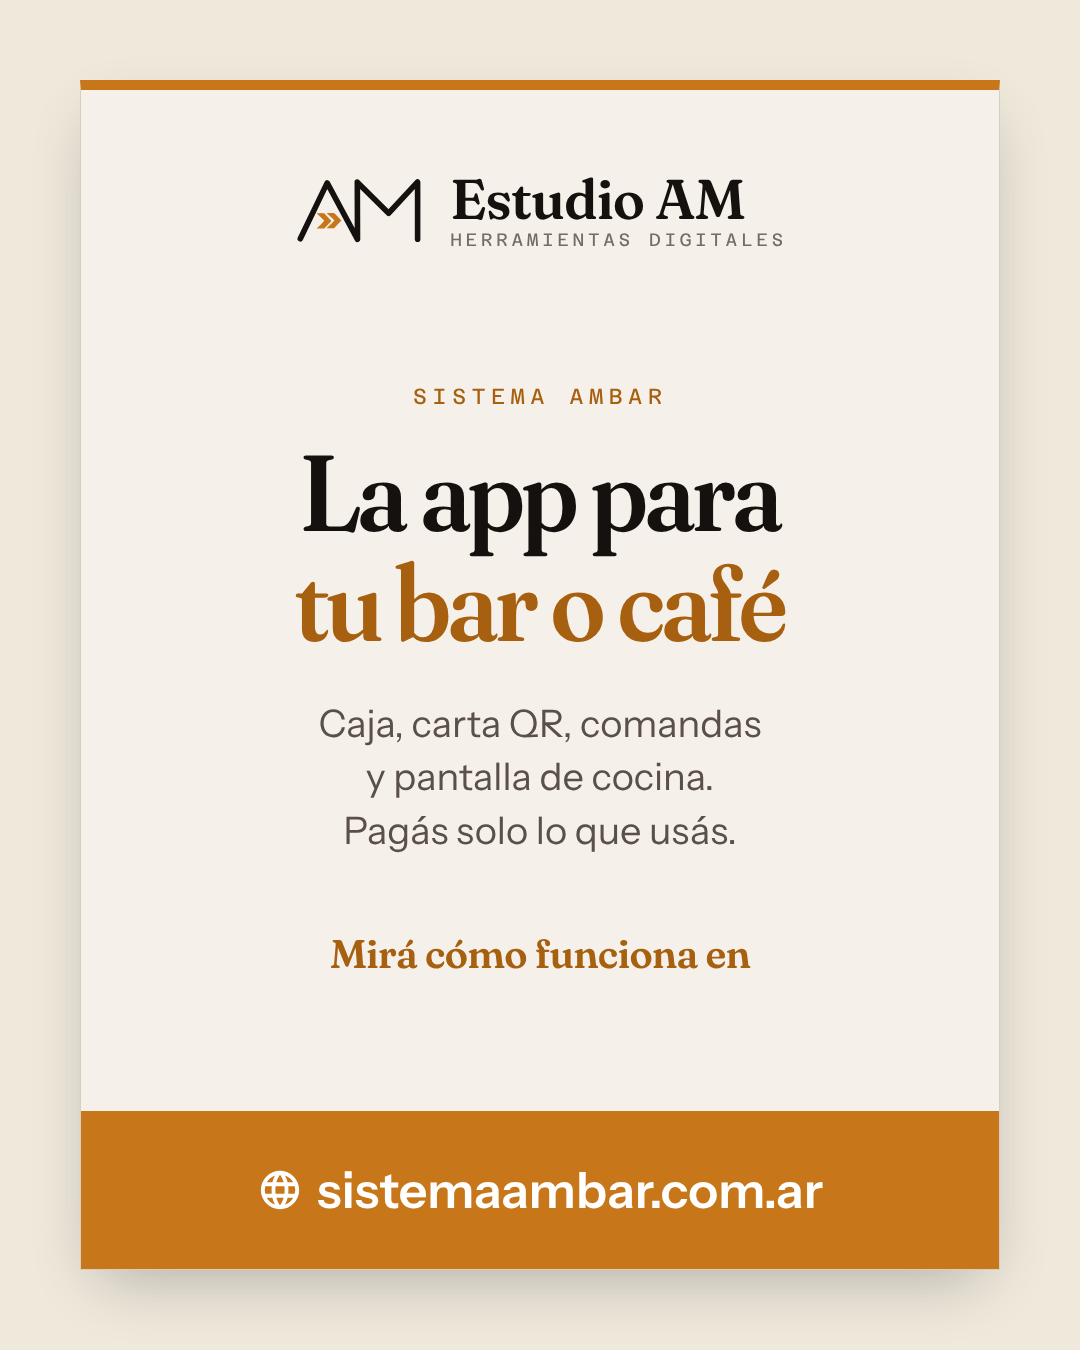
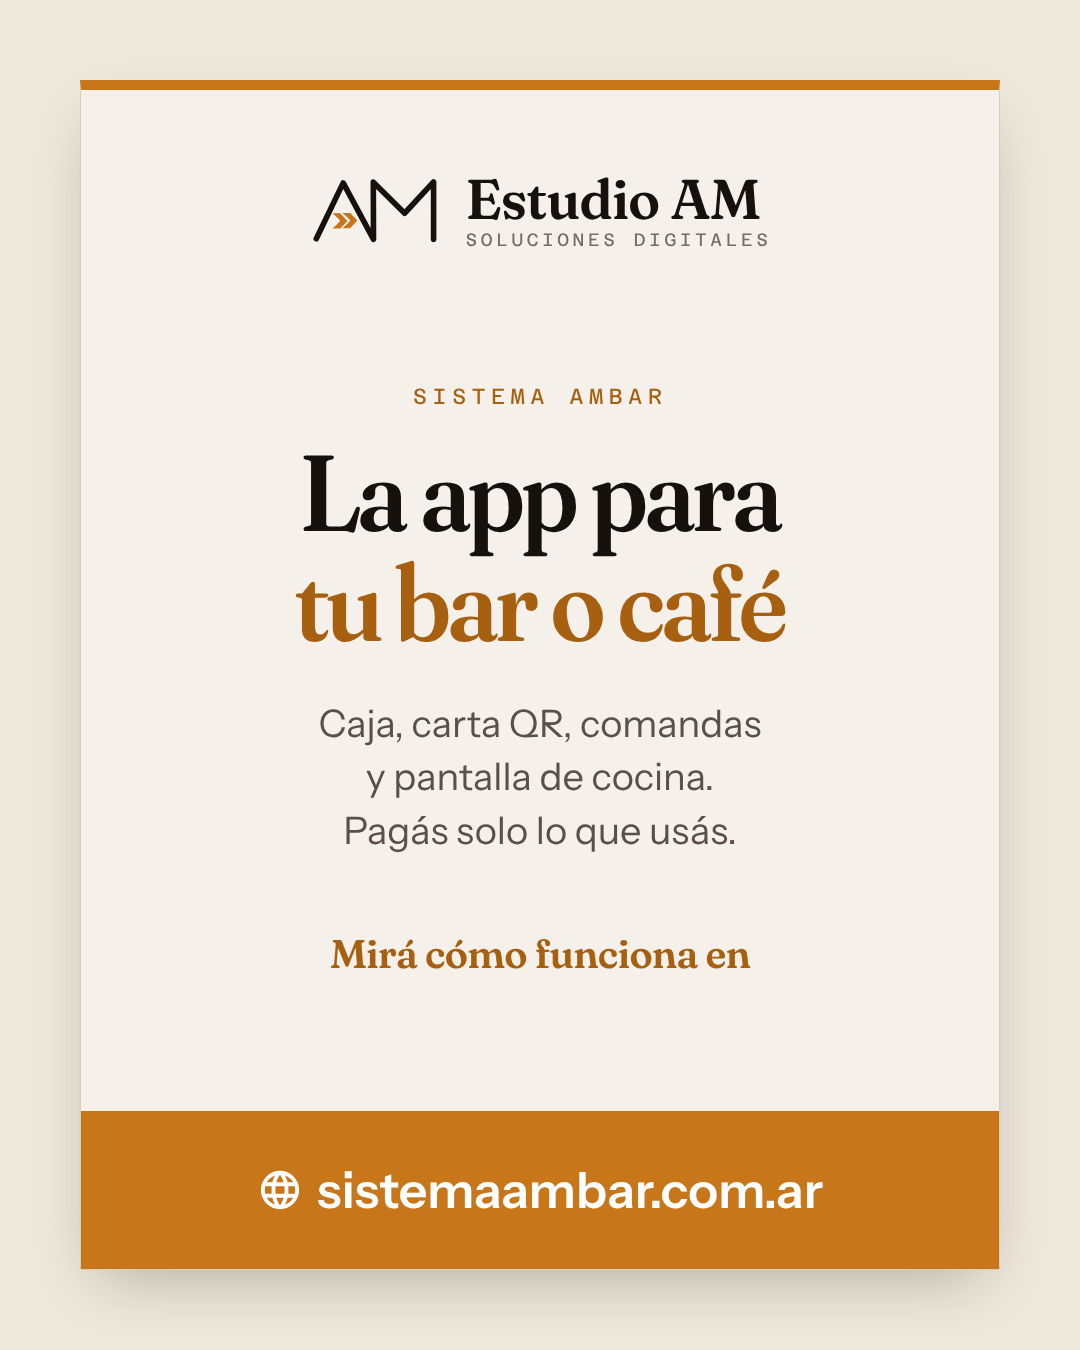
Piezas de Instagram: "Soluciones digitales" como en el sitio
Claude-Session: https://claude.ai/code/session_017mEGFx6s2jDAYU45fQz8RP

Changed region(s): [[0.275, 0.1244, 0.7028, 0.1867]]

diff --git a/piezas/instagram-ambar.html b/piezas/instagram-ambar.html
@@ -19,7 +19,7 @@ h1 span{color:#A6600F}
 .info svg{width:46px;height:46px;fill:#fff}
 </style></head><body>
 <div class="card">
-  <div class="top"><svg class="mark" viewBox="0 26 190 100"><path d="M 10.422337,117.11416 48.820421,37.300995 92.1554,117.93697 91.881131,36.203908 136.58747,80.635977 178.00255,35.929636 V 117.6627" fill="none" stroke="#14110F" stroke-width="8" stroke-linecap="round" stroke-linejoin="round"/><polygon points="37.00,81.00 44.67,91.00 37.00,101.00 41.83,101.00 48.50,91.00 41.83,81.00" fill="#C8761A"/><polygon points="56.33,101 63,91 56.33,81 51.5,81 59.17,91 51.5,101 " fill="#c8761a" transform="matrix(1.3851412,0,0,0.97306171,-34.373503,2.997782)" style="stroke:#c8761a;stroke-width:2.41402;stroke-dasharray:none;stroke-opacity:1"/><polygon points="51.50,81.00 59.17,91.00 51.50,101.00 56.33,101.00 63.00,91.00 56.33,81.00" fill="#C8761A"/><polygon points="56.33,101 63,91 56.33,81 51.5,81 59.17,91 51.5,101 " fill="#c8761a" transform="matrix(1.3851412,0,0,0.97306171,-20.089239,2.6035349)" style="stroke:#c8761a;stroke-width:2.41402;stroke-dasharray:none;stroke-opacity:1"/></svg><div class="lt"><b>Estudio AM</b><i>Herramientas digitales</i></div></div>
+  <div class="top"><svg class="mark" viewBox="0 26 190 100"><path d="M 10.422337,117.11416 48.820421,37.300995 92.1554,117.93697 91.881131,36.203908 136.58747,80.635977 178.00255,35.929636 V 117.6627" fill="none" stroke="#14110F" stroke-width="8" stroke-linecap="round" stroke-linejoin="round"/><polygon points="37.00,81.00 44.67,91.00 37.00,101.00 41.83,101.00 48.50,91.00 41.83,81.00" fill="#C8761A"/><polygon points="56.33,101 63,91 56.33,81 51.5,81 59.17,91 51.5,101 " fill="#c8761a" transform="matrix(1.3851412,0,0,0.97306171,-34.373503,2.997782)" style="stroke:#c8761a;stroke-width:2.41402;stroke-dasharray:none;stroke-opacity:1"/><polygon points="51.50,81.00 59.17,91.00 51.50,101.00 56.33,101.00 63.00,91.00 56.33,81.00" fill="#C8761A"/><polygon points="56.33,101 63,91 56.33,81 51.5,81 59.17,91 51.5,101 " fill="#c8761a" transform="matrix(1.3851412,0,0,0.97306171,-20.089239,2.6035349)" style="stroke:#c8761a;stroke-width:2.41402;stroke-dasharray:none;stroke-opacity:1"/></svg><div class="lt"><b>Estudio AM</b><i>Soluciones digitales</i></div></div>
   <div class="mid">
   <p class="tag">Sistema AMBAR</p><h1>La app para<br><span>tu bar o café</span></h1>
   <p class="sub">Caja, carta QR, comandas<br>y pantalla de cocina.<br>Pagás solo lo que usás.</p>

diff --git a/piezas/instagram-presentacion.html b/piezas/instagram-presentacion.html
@@ -19,7 +19,7 @@ h1 span{color:#A6600F}
 .info svg{width:46px;height:46px;fill:#fff}
 </style></head><body>
 <div class="card">
-  <div class="top"><svg class="mark" viewBox="0 26 190 100"><path d="M 10.422337,117.11416 48.820421,37.300995 92.1554,117.93697 91.881131,36.203908 136.58747,80.635977 178.00255,35.929636 V 117.6627" fill="none" stroke="#14110F" stroke-width="8" stroke-linecap="round" stroke-linejoin="round"/><polygon points="37.00,81.00 44.67,91.00 37.00,101.00 41.83,101.00 48.50,91.00 41.83,81.00" fill="#C8761A"/><polygon points="56.33,101 63,91 56.33,81 51.5,81 59.17,91 51.5,101 " fill="#c8761a" transform="matrix(1.3851412,0,0,0.97306171,-34.373503,2.997782)" style="stroke:#c8761a;stroke-width:2.41402;stroke-dasharray:none;stroke-opacity:1"/><polygon points="51.50,81.00 59.17,91.00 51.50,101.00 56.33,101.00 63.00,91.00 56.33,81.00" fill="#C8761A"/><polygon points="56.33,101 63,91 56.33,81 51.5,81 59.17,91 51.5,101 " fill="#c8761a" transform="matrix(1.3851412,0,0,0.97306171,-20.089239,2.6035349)" style="stroke:#c8761a;stroke-width:2.41402;stroke-dasharray:none;stroke-opacity:1"/></svg><div class="lt"><b>Estudio AM</b><i>Herramientas digitales</i></div></div>
+  <div class="top"><svg class="mark" viewBox="0 26 190 100"><path d="M 10.422337,117.11416 48.820421,37.300995 92.1554,117.93697 91.881131,36.203908 136.58747,80.635977 178.00255,35.929636 V 117.6627" fill="none" stroke="#14110F" stroke-width="8" stroke-linecap="round" stroke-linejoin="round"/><polygon points="37.00,81.00 44.67,91.00 37.00,101.00 41.83,101.00 48.50,91.00 41.83,81.00" fill="#C8761A"/><polygon points="56.33,101 63,91 56.33,81 51.5,81 59.17,91 51.5,101 " fill="#c8761a" transform="matrix(1.3851412,0,0,0.97306171,-34.373503,2.997782)" style="stroke:#c8761a;stroke-width:2.41402;stroke-dasharray:none;stroke-opacity:1"/><polygon points="51.50,81.00 59.17,91.00 51.50,101.00 56.33,101.00 63.00,91.00 56.33,81.00" fill="#C8761A"/><polygon points="56.33,101 63,91 56.33,81 51.5,81 59.17,91 51.5,101 " fill="#c8761a" transform="matrix(1.3851412,0,0,0.97306171,-20.089239,2.6035349)" style="stroke:#c8761a;stroke-width:2.41402;stroke-dasharray:none;stroke-opacity:1"/></svg><div class="lt"><b>Estudio AM</b><i>Soluciones digitales</i></div></div>
   <div class="mid">
   <h1>Apps y sitios web<br><span>a medida</span></h1>
   <p class="sub">Para comercios, escuelas,<br>alquileres temporarios<br>y emprendimientos.<br>Lo manejás desde el celular.</p>
